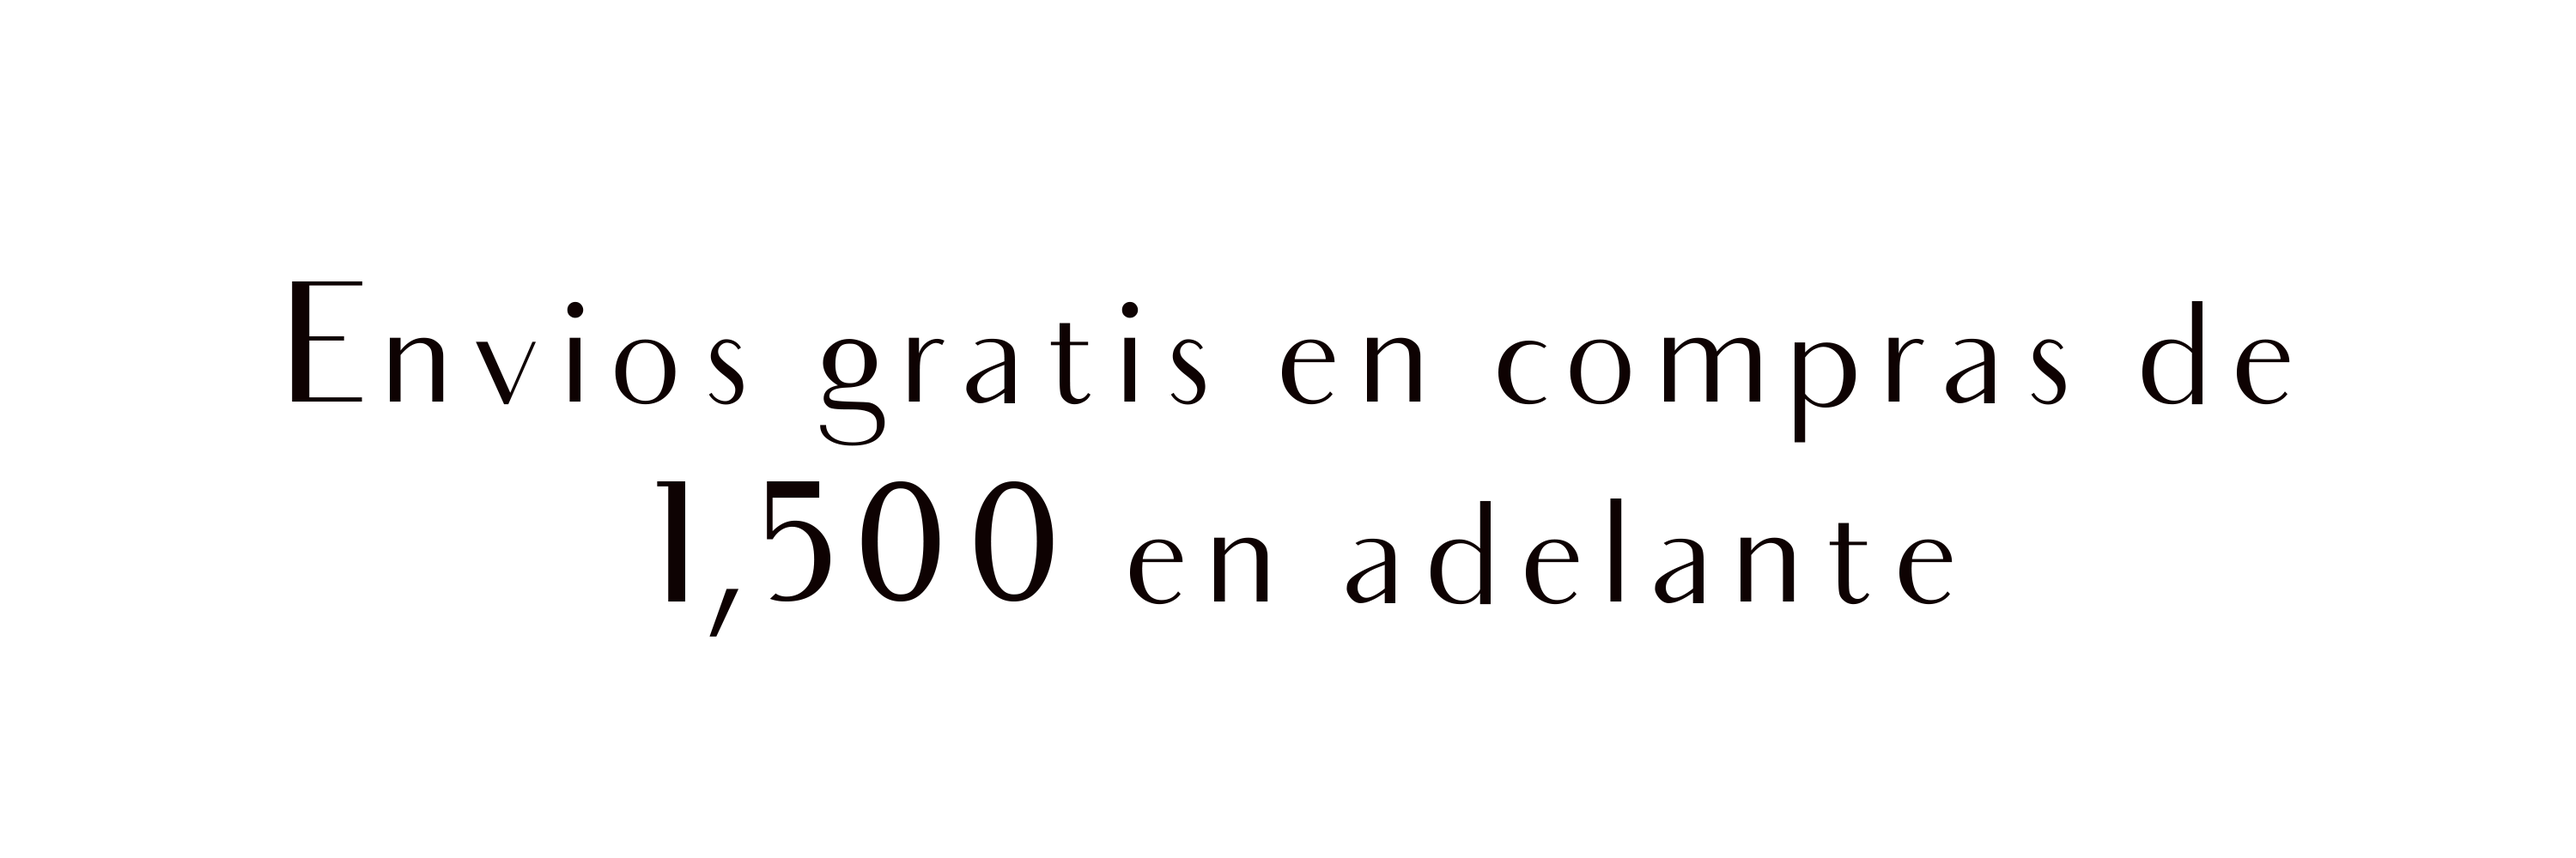
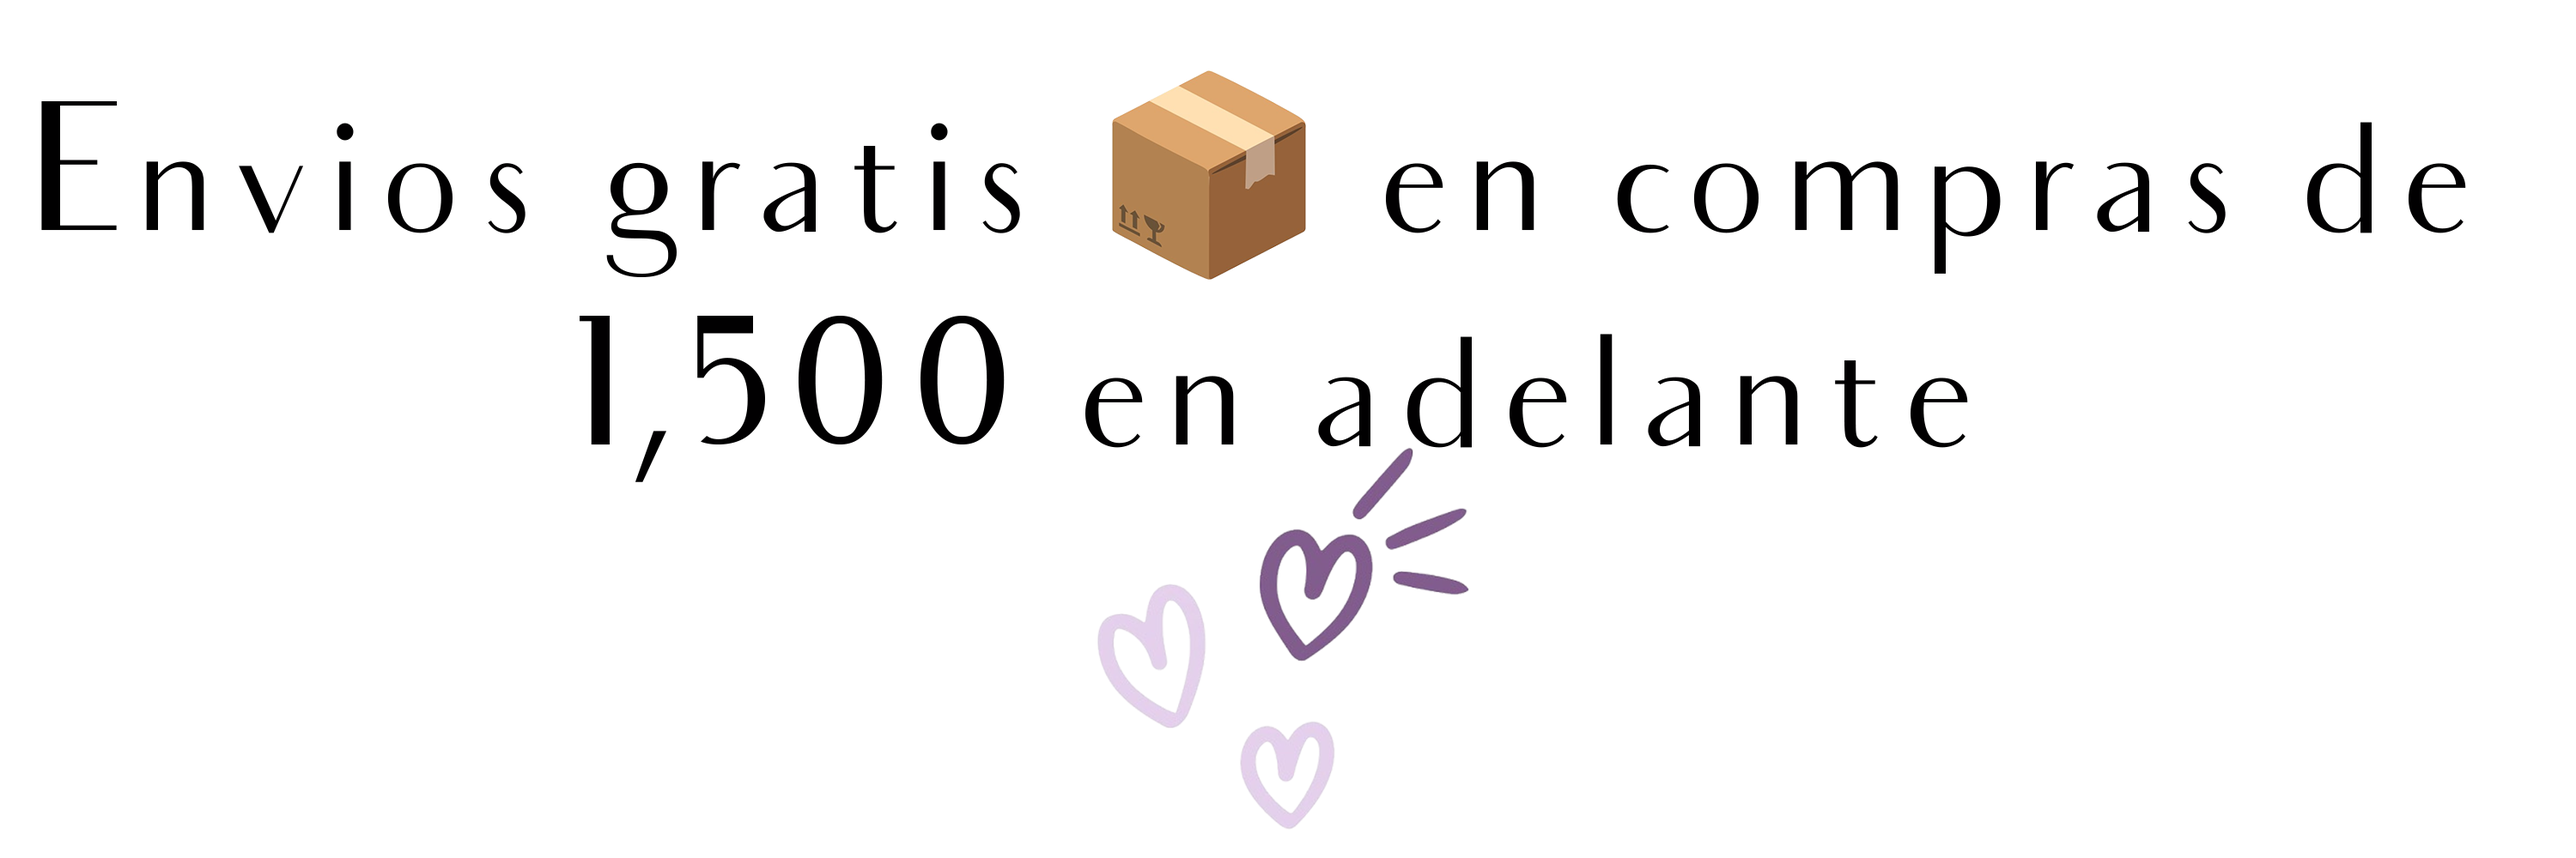
Add files via upload

diff --git a/index.html b/index.html
@@ -42,7 +42,7 @@
   </script>
 <div>
     <br><br><br>
-    <center><h2 style="font-family:Audrey">Envios gratis en compras de 1,500 lempiras en adelante</h2></center>
+    <center><img src="envios.png" alt="" width="80%;" height="80%"></center>
 </div><br><br><br>
 <div class="image1">
     <center>
@@ -50,8 +50,8 @@
     </center>
 </div><br><br>
 <div class="compras">
-    <center><h5><p>Compra 6 prendas o más y conviterte en cliente mayorista</p></h5></center>
-    <center><h5><p> ¡Aprovecha descuentos exclusivos! </p></h5></center>
+    <center><img src="compra.png" alt="" width="100%;"height="100%"></center>
+   
 </div>
 <br><br><br>
 <div class="gallery">
